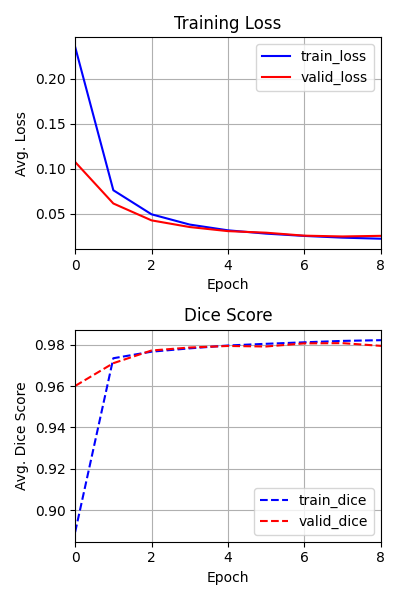
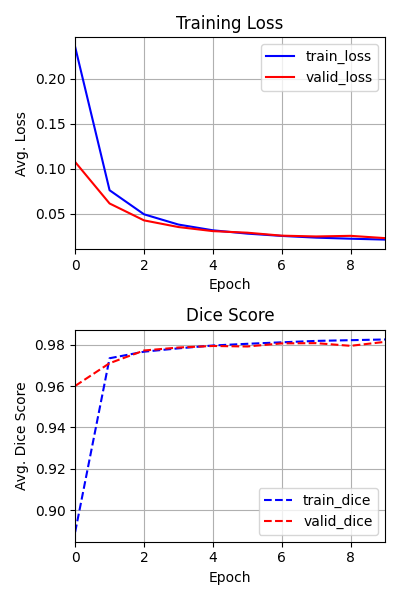
updated readme

diff --git a/figures/plot.py b/figures/plot.py
@@ -1,0 +1,96 @@
+import matplotlib.pyplot as plt
+import pandas as pd
+import numpy as np
+
+df = pd.read_csv("training_metrics.csv")
+epochs = range(len(df['training_loss']))
+
+
+fig, axes = plt.subplots(2, 1, figsize=(4, 6))  # Big square figure
+
+# Flatten axes array for easy iteration
+axes = axes.flatten()
+
+# --- Training Loss ---
+axes[0].plot(epochs, 
+             df['training_loss'], 
+             color='b', 
+             label='train_loss')
+axes[0].plot(epochs, 
+             df['validation_loss'], 
+             color='r', 
+             label='valid_loss')
+axes[0].set_title("Training Loss")
+axes[0].set_xlim(0, np.max(epochs))
+axes[0].set_xlabel("Epoch")
+axes[0].set_ylabel("Avg. Loss")
+axes[0].grid(True)
+axes[0].legend()
+#axes[0].set_aspect('equal')  # Makes subplot square
+
+axes[1].plot(epochs, 
+             df['training_dice'], 
+             color='b', 
+             linestyle="--", 
+             label='train_dice')
+axes[1].plot(epochs, 
+             df['validation_dice'], 
+             color='r',
+             linestyle="--", 
+             label='valid_dice')
+axes[1].set_title("Dice Score")
+axes[1].set_xlim(0, np.max(epochs))
+axes[1].set_xlabel("Epoch")
+axes[1].set_ylabel("Avg. Dice Score")
+axes[1].grid(True)
+axes[1].legend()
+#axes[1].set_aspect('equal')  # Makes subplot square
+plt.tight_layout()
+plt.show()
+
+"""plt.figure(1)
+plt.subplot(2,1,1)
+plt.plot(epochs, 
+         df['training_loss'], 
+         color='b', 
+         label='train_loss')
+plt.plot(epochs, 
+         df['validation_loss'], 
+         color='r', 
+         label='valid_loss')
+plt.show()"""
+
+
+"""plt.figure(1, figsize=(6,6))
+plt.subplot(2,2,1)
+plt.title("Train Loss")
+plt.ylabel('Avg. Loss')
+plt.xlabel('Epoch')
+plt.plot(df['training_loss'], color='b')
+plt.xlim(0,9)
+plt.ylim(0,np.max(df['training_loss'])+.02)
+
+plt.subplot(2,2,2)
+plt.title("Train Dice Score")
+plt.ylabel('Avg. Dice Score')
+plt.xlabel('Epoch')
+plt.plot(df['training_dice'], color='b', linestyle="--")
+plt.xlim(0,9)
+
+plt.subplot(2,2,3)
+plt.title("Validation Loss")
+plt.ylabel('Avg. Loss')
+plt.xlabel('Epoch')
+plt.plot(df['validation_loss'], color='r')
+plt.xlim(0,9)
+plt.ylim(0,np.max(df['validation_loss'])+.02)
+
+plt.subplot(2,2,4)
+plt.title("Validation Dice Score")
+plt.ylabel('Avg. Dice Score')
+plt.xlabel('Epoch')
+plt.plot(df['validation_dice'], color='r', linestyle="--")
+plt.xlim(0,9)
+
+plt.tight_layout()
+plt.show()"""

diff --git a/main.py b/main.py
@@ -34,11 +34,19 @@ def main():
     device = torch.device("cuda" if torch.cuda.is_available() else "cpu")
     print("Device:", device)
 
-    # Load model from SMP with efficientnetb3 backbone (input size 300x300)
+    """
+    Load model from SMP with efficientnetb3 backbone (input size 300x300)
+
+    model = smp.Unet('efficientnet-b3',
+                in_channels=1, 
+                encoder_weights=None,
+                classes=1,
+                activation=None)
+    """
     model = smp.Unet('efficientnet-b3', 
-                 encoder_weights='imagenet',
-                 classes=1,
-                 activation=None)
+                encoder_weights='imagenet',
+                classes=1,
+                activation=None)
     model.to(device)
 
     transforms = create_transforms(IMAGE_HEIGHT, IMAGE_WIDTH, TRAIN)

diff --git a/utils/checkpoints.py b/utils/checkpoints.py
@@ -1,4 +1,5 @@
 import torch
+import datetime
 
 def save_checkpoint(state, filename = "my_checkpoint.pth.tar"):
     print("-> Saving checkpoint.")

diff --git a/README.md b/README.md
@@ -6,3 +6,11 @@
 <div>
     In this project, I used UNet with an EfficientNetB3 backbone to perform binary semantic segmentation on lung X-RAY images from the <a href="https://www.kaggle.com/datasets/tawsifurrahman/covid19-radiography-database">COVID-19 Radiography dataset</a>. Preprocessing was performed by applying adaptive histogram equalization to enhance contrast of the low-contrast X-Ray images, followed by a resizing operation to match the input dimensions of EfficientNetB3 (300x300). Binary cross-entropy loss was used during the training step.
 </div>
+</br>
+
+<div>
+    During training, the average loss and dice score for each epoch were logged and visualized in the figure below. The loss appears to stabilize around epoch 8, while the dice score increased rapidly during epochs 0–1 and continued to improve more-gradually afterwards.
+</div>
+<div align="center">
+    <img src = "./figures/figure1.png">
+</div>
